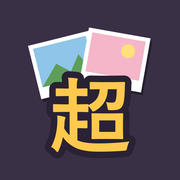
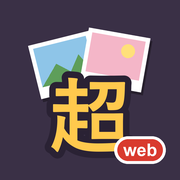
v5: アイコンを Android 版と同じ絵に、右下に web の札（Android の Chrome 用の maskable も）

Changed region(s): [[0.6111, 0.75, 0.9444, 0.9167]]

diff --git a/sw.js b/sw.js
@@ -1,7 +1,7 @@
 // 電波がないときでも開けるように、ページのファイルを覚えておく。
 // 電波があるときは、いつもサーバーから新しいものを読む（直した版がすぐに届くように）。
-const CACHE = 'album-v4';
-const FILES = ['./', 'index.html', 'manifest.webmanifest', 'icon-180.png', 'icon-192.png', 'icon-512.png', 'Code.gs.txt',
+const CACHE = 'album-v5';
+const FILES = ['./', 'index.html', 'manifest.webmanifest', 'icon-180.png', 'icon-192.png', 'icon-512.png', 'icon-maskable-192.png', 'icon-maskable-512.png', 'Code.gs.txt',
   'js/app.js', 'js/model.js', 'js/store.js', 'js/render.js', 'js/pageview.js', 'js/cloud.js', 'js/backup.js',
   'js/pdf.js', 'js/zip.js', 'js/ui.js'];
 

diff --git a/js/app.js b/js/app.js
@@ -9,7 +9,7 @@ import { Item, Page, PHOTO, TEXT, INK, LINE, css, COLORS, WIDTH_NAMES, PEN_W, LI
 import { PageView, SELECT, PEN, LINE_T, ARROW, TEXT_T } from './pageview.js';
 import { el, btn, toast, dialog, confirmDlg, askText, check, applyFull, fullSize, shareFile, shareAfterWork, isIPad } from './ui.js';
 
-const VERSION = 'v4（2026-11-03）';
+const VERSION = 'v5（2026-11-03）';
 const $ = id => document.getElementById(id);
 const SCREENS = ['scr-list', 'scr-album', 'scr-edit', 'scr-crop', 'scr-set'];
 let curScreen = 'scr-list';
